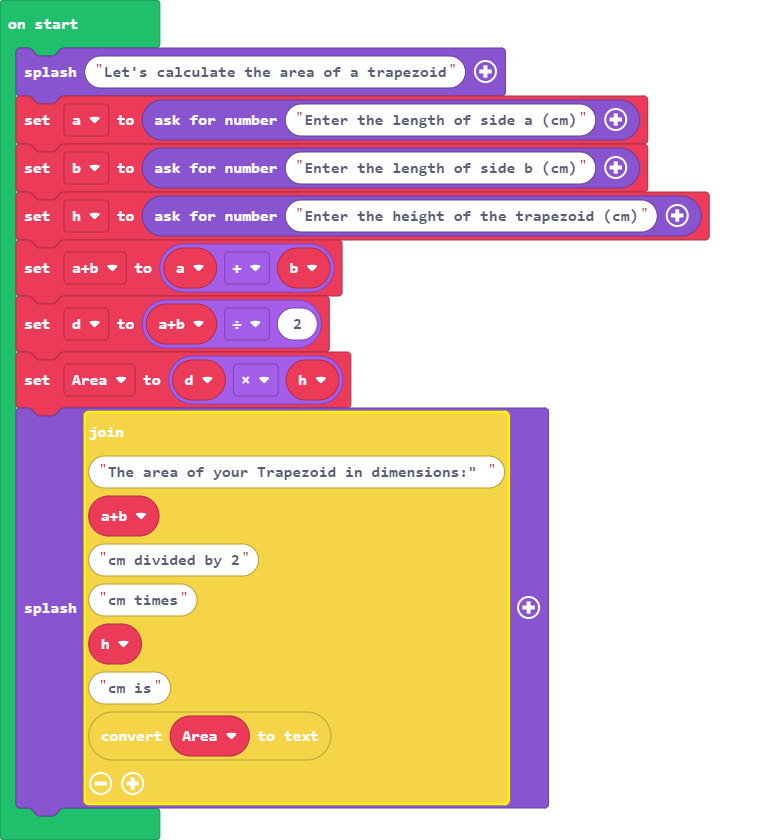
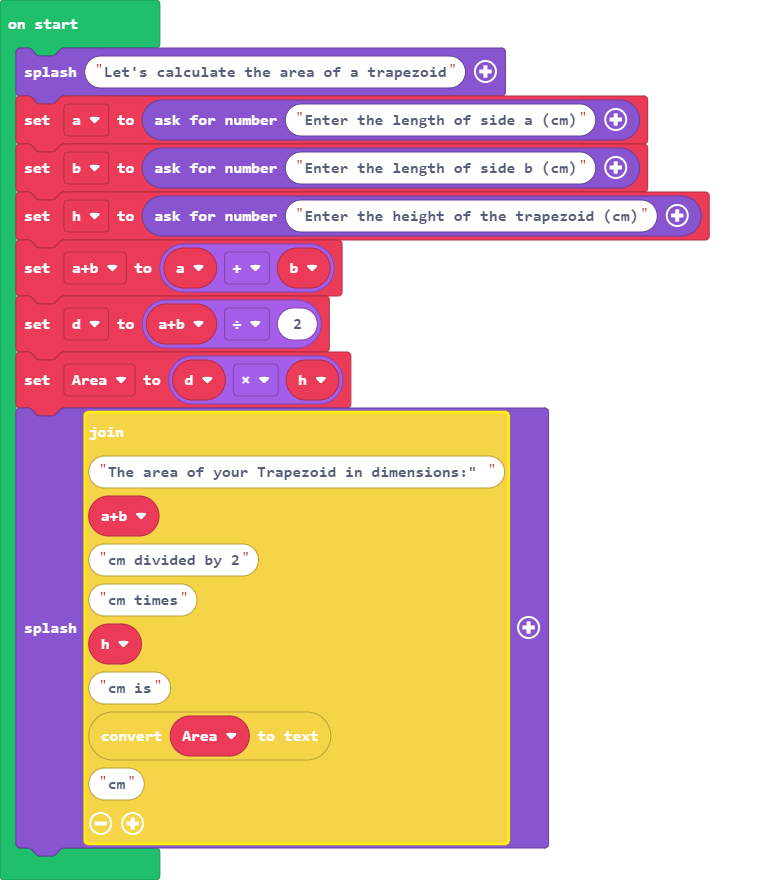
Update main.blocks, main.ts

Changed region(s): [[0.0, 0.031, 0.9369, 0.9905], [0.6649, 0.681, 0.7254, 0.7429]]

diff --git a/main.ts b/main.ts
@@ -5,4 +5,4 @@ let h = game.askForNumber("Enter the height of the trapezoid (cm)")
 let ab = a + b
 let d = ab / 2
 let Area = d * h
-game.splash("The area of your Trapezoid in dimensions:\" " + ab + "cm divided by 2" + "cm times" + h + "cm is" + convertToText(Area))
+game.splash("The area of your Trapezoid in dimensions:\" " + ab + "cm divided by 2" + "cm times" + h + "cm is" + convertToText(Area) + "cm")
